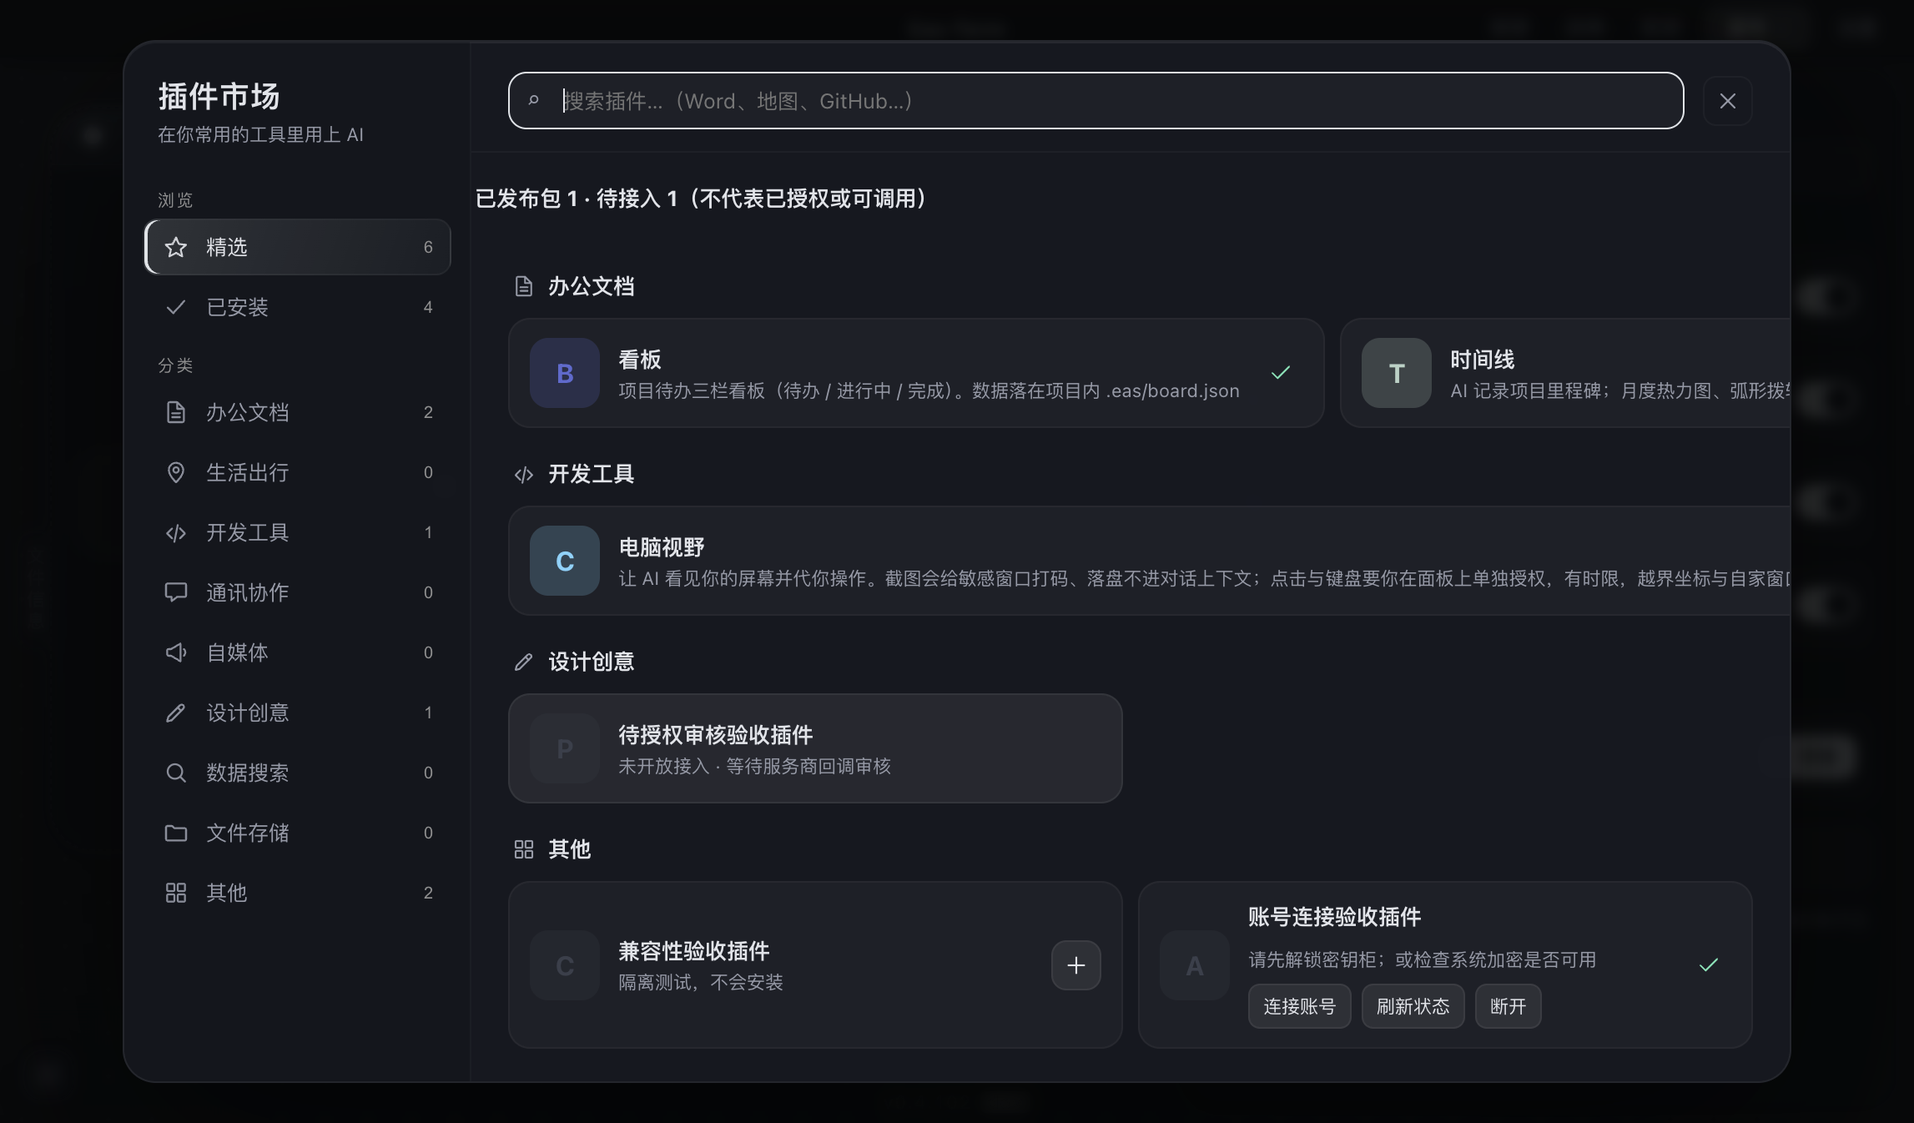
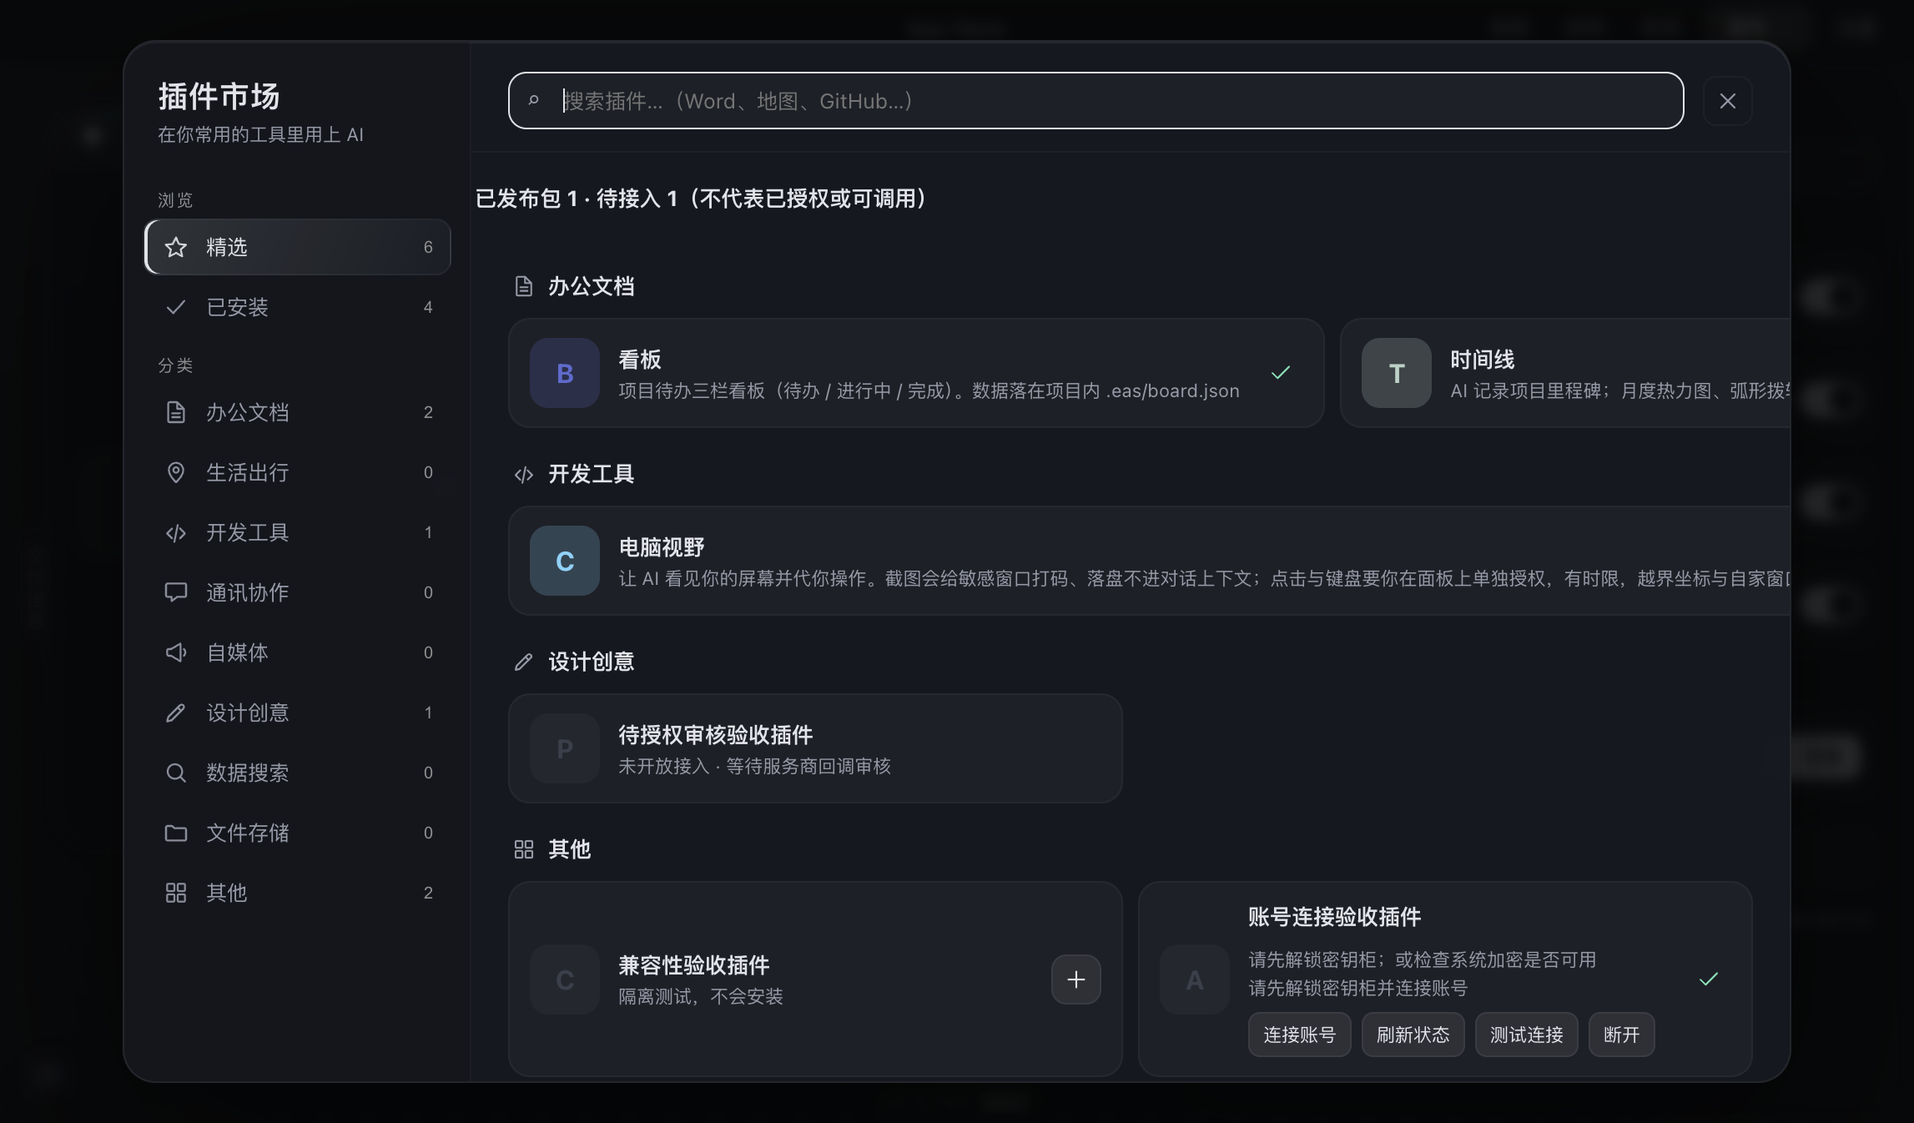
feat(plugins): probe connections through the managed shared host

Changed region(s): [[0.65, 0.8737, 0.8666, 0.9361], [0.3095, 0.8425, 0.4024, 0.9049]]

diff --git a/docs/verification/plugin-marketplace/progress.html b/docs/verification/plugin-marketplace/progress.html
@@ -1,16 +1,16 @@
-<!doctype html><html lang="zh-CN"><head><meta charset="utf-8"><meta name="viewport" content="width=device-width,initial-scale=1"><title>插件接入 · 实时进度</title><style>*{box-sizing:border-box}body{margin:0;background:#0a0a0a;color:#f5f5f5;font:15px/1.75 -apple-system,BlinkMacSystemFont,"PingFang SC",sans-serif}main{max-width:1080px;padding:28px;margin:auto}h1{font-size:29px;letter-spacing:-.02em;margin:8px 0}h2{font-size:12px;color:#a3a3a3;letter-spacing:.15em}section{background:rgba(23,23,23,.5);border:1px solid #262626;border-radius:14px;padding:20px;margin:18px 0}.muted{color:#a3a3a3}.warn{border-left:2px solid #fbbf24}.good{color:#6ee7b7}table{width:100%;border-collapse:collapse;font-size:13.5px}td{padding:9px;border-bottom:1px solid #262626}pre{background:#111;white-space:pre-wrap;overflow-wrap:anywhere;padding:16px;border-radius:12px;font-size:12px}.tw{overflow-x:auto}</style></head><body><main><h2>LIVE TASK STATUS / 本地轮询节点</h2><h1>插件市场统一接入</h1><p class="muted">按原 Demo 32 项接入 · 未上线 · 不修改正式应用</p><section class="warn"><b>通过 · 账号连接 UI 与 guarded IPC：全量检查、构建、隔离眼验</b><p>本次任务耗时 70 秒</p><p class="muted">最后采样：2026-09-18T06:03:10-07:00</p><p id="stale"></p></section><section><h2>DELIVERY / 交付阶段</h2><div class="tw"><table><tr><td>清单与设计</td><td class="good">已确认 · 32 项</td></tr><tr><td>兼容性门禁</td><td>代码已接线 · 不兼容拒绝已隔离 UI 验证</td></tr><tr><td>打包与安装边界</td><td>清单确认后防变更、普通更新失败回退已测试</td></tr><tr><td>远程 MCP / 统一授权</td><td>无需认证传输已接宿主并做隔离网关测试；账号授权/界面未完成</td></tr><tr><td>32 项插件接入</td><td>未完成；不以目录卡片计完成数</td></tr><tr><td>市场独立更新验收</td><td>未完成</td></tr></table></div></section><section><h2>PROCESS / 真实任务输出</h2><pre>../../out/renderer/assets/index-CqDpSFec.js                228.28 kB
-../../out/renderer/assets/DictView-V6gnTt7R.js             656.69 kB
+<!doctype html><html lang="zh-CN"><head><meta charset="utf-8"><meta name="viewport" content="width=device-width,initial-scale=1"><title>插件接入 · 实时进度</title><style>*{box-sizing:border-box}body{margin:0;background:#0a0a0a;color:#f5f5f5;font:15px/1.75 -apple-system,BlinkMacSystemFont,"PingFang SC",sans-serif}main{max-width:1080px;padding:28px;margin:auto}h1{font-size:29px;letter-spacing:-.02em;margin:8px 0}h2{font-size:12px;color:#a3a3a3;letter-spacing:.15em}section{background:rgba(23,23,23,.5);border:1px solid #262626;border-radius:14px;padding:20px;margin:18px 0}.muted{color:#a3a3a3}.warn{border-left:2px solid #fbbf24}.good{color:#6ee7b7}table{width:100%;border-collapse:collapse;font-size:13.5px}td{padding:9px;border-bottom:1px solid #262626}pre{background:#111;white-space:pre-wrap;overflow-wrap:anywhere;padding:16px;border-radius:12px;font-size:12px}.tw{overflow-x:auto}</style></head><body><main><h2>LIVE TASK STATUS / 本地轮询节点</h2><h1>插件市场统一接入</h1><p class="muted">按原 Demo 32 项接入 · 未上线 · 不修改正式应用</p><section class="warn"><b>通过 · 插件测试连接：共享宿主回归与隔离 UI 验证</b><p>本次任务耗时 65 秒</p><p class="muted">最后采样：2026-09-18T06:14:55-07:00</p><p id="stale"></p></section><section><h2>DELIVERY / 交付阶段</h2><div class="tw"><table><tr><td>清单与设计</td><td class="good">已确认 · 32 项</td></tr><tr><td>兼容性门禁</td><td>代码已接线 · 不兼容拒绝已隔离 UI 验证</td></tr><tr><td>打包与安装边界</td><td>清单确认后防变更、普通更新失败回退已测试</td></tr><tr><td>远程 MCP / 统一授权</td><td>无需认证传输已接宿主并做隔离网关测试；账号授权/界面未完成</td></tr><tr><td>32 项插件接入</td><td>未完成；不以目录卡片计完成数</td></tr><tr><td>市场独立更新验收</td><td>未完成</td></tr></table></div></section><section><h2>PROCESS / 真实任务输出</h2><pre>../../out/renderer/assets/DictView-C1Md1OF2.js             656.69 kB
 ../../out/renderer/assets/dictionary-bundle-ZdkIBe8W.js  1,489.45 kB
-../../out/renderer/assets/index-D6RLS707.js              4,412.40 kB
-✓ built in 3.23s
+../../out/renderer/assets/index-a3U8ItuQ.js              4,413.02 kB
+✓ built in 3.19s
 {
   &quot;passed&quot;: true,
   &quot;checks&quot;: [
     &quot;市场展示隔离目录条目&quot;,
-    &quot;OAuth账号控制显示连接/刷新/断开与真实锁定状态&quot;,
+    &quot;OAuth账号控制显示连接/刷新/测试/断开与真实锁定状态&quot;,
     &quot;实际IPC只返回状态，不返回凭证&quot;,
+    &quot;未授权测试连接明确拒绝，不打开登录或发出服务调用&quot;,
     &quot;v2待接入条目展示原因且无安装按钮&quot;,
     &quot;点击接入后显示明确宿主版本错误&quot;,
     &quot;请求仅为目录，未下载插件包&quot;
   ]
-}</pre></section><p class="muted">运行时每 5 秒采样并刷新；结束后显示真实退出结果。页面轮询不会启动任务，也不会让 AI 在会话结束后自行继续开发。</p><p>反馈指令：<code>汇报当前阻碍</code></p></main><script>const age=(Date.now()-Date.parse('2026-09-18T06:03:10-07:00'))/1000;if(age>30&&false)document.getElementById('stale').textContent='采样已超过 30 秒未更新，任务状态待核实，不能据此认定仍在运行。';</script></body></html>
+}</pre></section><p class="muted">运行时每 5 秒采样并刷新；结束后显示真实退出结果。页面轮询不会启动任务，也不会让 AI 在会话结束后自行继续开发。</p><p>反馈指令：<code>汇报当前阻碍</code></p></main><script>const age=(Date.now()-Date.parse('2026-09-18T06:14:55-07:00'))/1000;if(age>30&&false)document.getElementById('stale').textContent='采样已超过 30 秒未更新，任务状态待核实，不能据此认定仍在运行。';</script></body></html>

diff --git a/src/main/pluginConnections/authorizationActions.ts b/src/main/pluginConnections/authorizationActions.ts
@@ -4,23 +4,33 @@ import type {PluginAuthorizationRuntime} from './authorizationRuntime.ts'
 interface Dependencies {
  find:(id:string)=>PluginInfo|undefined
  runtime:(info:PluginInfo)=>Pick<PluginAuthorizationRuntime,'status'|'login'|'disconnect'>
+ probe?:(info:PluginInfo)=>Promise<number>
  confirm:(info:PluginInfo,action:'login'|'disconnect')=>Promise<boolean>
 }
 /** IPC accepts only action + installed ID. Never accepts endpoint, token, path or client ID. */
 export function createAuthorizationActions(deps:Dependencies){
  return async(action:unknown,id:unknown):Promise<PluginAuthorizationResult>=>{
   try{
-   if(!['status','login','disconnect'].includes(String(action))||typeof id!=='string'||!/^eas:[a-z0-9][a-z0-9-]{0,39}$/.test(id))throw Error('插件授权参数无效')
+   if(typeof action!=='string'||!['status','login','disconnect','test'].includes(action)||typeof id!=='string'||!/^eas:[a-z0-9][a-z0-9-]{0,39}$/.test(id))throw Error('插件授权参数无效')
    const info=deps.find(id)
    if(!info||info.cli!=='eas'||info.remote?.auth!=='oauth')throw Error('插件未配置账号连接')
-   if(action==='login'&&info.enabled===false)throw Error('请先启用插件')
+   if((action==='login'||action==='test')&&info.enabled===false)throw Error('请先启用插件')
    const snapshot=JSON.stringify(info.remote)
-   if(action!=='status'){
+   if(action==='login'||action==='disconnect'){
     if(!await deps.confirm(info,action as 'login'|'disconnect'))return {ok:false,error:'已取消'}
     const current=deps.find(id)
     if(!current||JSON.stringify(current.remote)!==snapshot||(action==='login'&&current.enabled===false))throw Error('插件配置已变化，请重新确认')
    }
    const runtime=deps.runtime(info)
+   if(action==='test'){
+    const status=runtime.status()
+    if(status!=='authorized'&&status!=='expired')throw Error('请先解锁密钥柜并连接账号')
+    if(!deps.probe)throw Error('连接测试暂不可用')
+    const toolCount=await deps.probe(info)
+    const after=runtime.status(),current=deps.find(id)
+    if(after!=='authorized'||!current||current.enabled===false||JSON.stringify(current.remote)!==snapshot)throw Error('账号或插件配置已变化，请重新测试')
+    return {ok:true,status:after,connection:{toolCount,checkedAt:Date.now()}}
+   }
    if(action==='login')await runtime.login()
    if(action==='disconnect')runtime.disconnect()
    return {ok:true,status:runtime.status()}

diff --git a/src/renderer/src/features/canvas/PluginAccountControls.tsx b/src/renderer/src/features/canvas/PluginAccountControls.tsx
@@ -3,15 +3,16 @@ import {pluginAuthorizationLabel,type PluginAuthorizationAction,type PluginAutho
 /** No timers/decryption polling. Refresh explicitly; credentials never cross this boundary. */
 export function PluginAccountControls({id,enabled}:{id:string;enabled:boolean}):JSX.Element {
  const [status,setStatus]=useState<PluginAuthorizationStatus|null>(null)
+ const [connection,setConnection]=useState<{toolCount:number;checkedAt:number}|null>(null)
  const [busy,setBusy]=useState(false)
  const [error,setError]=useState<string|null>(null)
  const generation=useRef(0)
  const run=async(action:PluginAuthorizationAction)=>{
-  const seq=++generation.current;setBusy(true);setError(null)
+  const seq=++generation.current;setBusy(true);setError(null);setConnection(null)
   try{
    const result=await window.api.plugins.authorization(action,id)
    if(seq!==generation.current)return
-   if(result.ok)setStatus(result.status)
+   if(result.ok){setStatus(result.status);setConnection(result.connection??null)}
    else setError(result.error)
   }catch{if(seq===generation.current)setError('账号状态读取失败，请重试')}
   finally{if(seq===generation.current)setBusy(false)}
@@ -19,10 +20,12 @@ export function PluginAccountControls({id,enabled}:{id:string;enabled:boolean}):
  useEffect(()=>{void run('status');return()=>{generation.current++}},[id])
  return <div className="pm-auth" data-plugin-account={id}>
   <div className="pm-cd" role="status">{busy?'账号操作中…':status?pluginAuthorizationLabel(status):'读取账号状态…'}</div>
+  {connection&&<div className="pm-cd" role="status">已连通 · {connection.toolCount} 个工具 · {new Date(connection.checkedAt).toLocaleTimeString()} 检测（未执行业务操作）</div>}
   {error&&<div className="pm-cd" role="alert">{error}</div>}
   <div className="pm-auth-actions">
    <button type="button" disabled={busy||!enabled} onClick={()=>void run('login')}>{status==='authorized'?'重新授权':'连接账号'}</button>
    <button type="button" disabled={busy} onClick={()=>void run('status')}>刷新状态</button>
+   <button type="button" disabled={busy||!enabled} onClick={()=>void run('test')}>测试连接</button>
    <button type="button" onClick={()=>void run('disconnect')}>断开</button>
   </div>
  </div>

diff --git a/src/main/pluginRemoteHost.test.ts b/src/main/pluginRemoteHost.test.ts
@@ -32,7 +32,7 @@ for(const oauth of [false,true])test('actual host shim gateway shares one remote
  const port=(server.address() as {port:number}).port
  const source=ts.createSourceFile('pluginHost.ts',readFileSync(new URL('./pluginHost.ts',import.meta.url),'utf8'),ts.ScriptTarget.Latest,true)
  const pick=(name:string)=>{const node=source.statements.find(n=>(ts.isFunctionDeclaration(n)&&n.name?.text===name)||(ts.isVariableStatement(n)&&n.declarationList.declarations.some(d=>ts.isIdentifier(d.name)&&d.name.text===name)));assert.ok(node);return node.getText(source)}
- const code=ts.transpileModule(['PLUGIN_START_COST','startingPlugins','spawnHosted','acquire','pluginRpcFromShim'].map(pick).join('\n'),{compilerOptions:{module:ts.ModuleKind.CommonJS,target:ts.ScriptTarget.ES2022}}).outputText
+ const code=ts.transpileModule(['PLUGIN_START_COST','startingPlugins','spawnHosted','acquire','pluginRpcFromShim','testPluginConnection'].map(pick).join('\n'),{compilerOptions:{module:ts.ModuleKind.CommonJS,target:ts.ScriptTarget.ES2022}}).outputText
  const info={name:'fixture',displayName:'Fixture',cli:'eas',remote:{url:'https://mcp.example.com/mcp',approvedOrigins:['https://mcp.example.com'],auth:oauth?'oauth':'none'}}
  const leases=new CredentialLeases(()=>true)
  const authorized=createAuthenticatedFetch({url:info.remote.url,lease:leases.acquire(),load:()=>({access_token:'fixture-token',token_type:'Bearer'}),refresh:async()=>{throw Error('not expired')},fetch:async(_url,init)=>fetch('http://127.0.0.1:'+port+'/mcp',init)})
@@ -67,5 +67,6 @@ for(const oauth of [false,true])test('actual host shim gateway shares one remote
   }finally{shim.close();await shim.exited}
  }
  assert.equal(initialized,1);assert.equal(calls,6)
+ const refs=registry.refs('fixture');assert.equal(await exports.testPluginConnection(info),1);assert.equal(registry.refs('fixture'),refs);assert.equal(calls,6);assert.equal(initialized,1)
  if(oauth){const client=registry.get('fixture')!.client;leases.invalidate();await client.connectionClosed;assert.equal(client.alive,false)}
 })

diff --git a/src/main/pluginConnections/authorizationActions.test.ts b/src/main/pluginConnections/authorizationActions.test.ts
@@ -20,3 +20,16 @@ test('confirmation cannot authorize a changed manifest or disabled plugin',async
  assert.equal((await api('login',plugin.id)).ok,false);assert.equal(logins,0)
  const f=setup();f.replace({...plugin,enabled:false});assert.equal((await f.api('login',plugin.id)).ok,false)
 })
+test('test connection requires credentials and reports only tool count without login',async()=>{
+ let state='disconnected',probes=0
+ const api=actions.createAuthorizationActions({find:()=>plugin,runtime:()=>({status:()=>state as 'disconnected'|'authorized',login:async()=>{throw Error('must not login')},disconnect:()=>{}}),confirm:async()=>{throw Error('not a login')},probe:async()=>{probes++;return 3}})
+ assert.equal((await api('test',plugin.id)).ok,false);assert.equal(probes,0)
+ state='authorized';const result=await api('test',plugin.id)
+ assert.equal(result.ok,true);if(result.ok){assert.equal(result.connection?.toolCount,3);assert.equal(typeof result.connection?.checkedAt,'number')}
+ assert.equal(probes,1)
+})
+test('connection result is discarded if authorization disappears while probing',async()=>{
+ let state:'authorized'|'disconnected'='authorized'
+ const api=actions.createAuthorizationActions({find:()=>plugin,runtime:()=>({status:()=>state,login:async()=>({authorized:true}),disconnect:()=>{}}),confirm:async()=>true,probe:async()=>{state='disconnected';return 4}})
+ assert.equal((await api('test',plugin.id)).ok,false)
+})

diff --git a/src/shared/pluginAuthorization.ts b/src/shared/pluginAuthorization.ts
@@ -1,7 +1,7 @@
 /** Credential-free UI contract. Authorized means local token exists, not service availability. */
 export type PluginAuthorizationStatus='disconnected'|'authorized'|'expired'|'locked-or-unavailable'
-export type PluginAuthorizationAction='status'|'login'|'disconnect'
-export type PluginAuthorizationResult={ok:true;status:PluginAuthorizationStatus}|{ok:false;error:string}
+export type PluginAuthorizationAction='status'|'login'|'disconnect'|'test'
+export type PluginAuthorizationResult={ok:true;status:PluginAuthorizationStatus;connection?:{toolCount:number;checkedAt:number}}|{ok:false;error:string}
 export function pluginAuthorizationLabel(status:PluginAuthorizationStatus):string {
  return {disconnected:'账号未连接',authorized:'凭证已保存 · 尚未测试连接',expired:'凭证已过期 · 调用前尝试刷新','locked-or-unavailable':'请先解锁密钥柜；或检查系统加密是否可用'}[status]
 }

diff --git a/src/main/plugins.ts b/src/main/plugins.ts
@@ -254,7 +254,7 @@ export function registerPluginHandlers(): void {
   guardedHandle('plugins:authorization', (event, args: {action?:unknown;id?:unknown}) => {
     const win=BrowserWindow.fromWebContents(event.sender)
     if(!win||win.isDestroyed())return {ok:false,error:'工作台窗口已关闭'}
-    return createAuthorizationActions({find:findPlugin,runtime:getPluginAuthorization,confirm:async(info,action)=>{
+    return createAuthorizationActions({find:findPlugin,runtime:getPluginAuthorization,probe:async info=>(await import('./pluginHost')).testPluginConnection(info),confirm:async(info,action)=>{
       const remote=info.remote!
       const response=await dialog.showMessageBox(win,{type:'question',title:action==='login'?'连接插件账号':'断开插件账号',
         message:action==='login'?`连接「${info.displayName}」的账号？`:`断开「${info.displayName}」？`,

diff --git a/src/main/pluginHost.ts b/src/main/pluginHost.ts
@@ -503,3 +503,13 @@ export async function stopObservedPlugin(serviceId:string,callerWindowId:number,
   host=>{if(host.kind==='plugin')host.client.close()},
   host=>{if(host.kind==='plugin')manualStops.stop(host.name)})
 }
+
+/** Read-only explicit connectivity probe. Reuses managed admission and shared host. */
+export async function testPluginConnection(info:PluginInfo):Promise<number>{
+ const ref='test:'+crypto.randomUUID()
+ try{
+  const hosted=await acquire(info,ref)
+  const tools=await hosted.client.listTools()
+  return tools.length
+ }finally{registry.release(info.name,ref)}
+}

diff --git a/docs/architecture/13-所有权矩阵.md b/docs/architecture/13-所有权矩阵.md
@@ -265,3 +265,5 @@ shared/browserRoutes.json → scripts/build-browser-routes.mjs → docs/browser/
 新目录`pluginCatalog.ts`支持v1/v2，旧`parseRegistry`仍只读v1（旧客户端不会接受schema2）。v2不可安装条目是独立`unavailable`列表，拒绝url/hash等伪下载字段；同步shared PluginUnavailableEntry、preload返回形状、完整市场无安装按钮与原因/缓存提示。正式默认目录URL仍v1，切换v2与服务器上线尚未执行。
 
 2026-09-18 插件账号UI同步链：`shared/pluginAuthorization.ts`（只含状态/动作/结果）↔ `authorizationActions.ts`（校验已安装ID、原生确认后重验清单与启用状态）↔ `plugins.ts` 内 guarded `plugins:authorization` ↔ preload ↔ `PluginAccountControls`（完整市场卡片）。不接收renderer URL/clientId/路径/令牌，不自动登录，不轮询解密；本地有token只标“凭证已保存，尚未测试连接”。断开关闭当前配置连接并清其本地凭证，不等于撤销服务商授权或历史配置清理。保持原有registerPluginHandlers启动位置不动。
+
+账号`test`契约同步shared PluginAuthorizationAction/Result → authorizationActions.probe → plugins.ts动态引入pluginHost（避免顶层循环） → testPluginConnection共享宿主 → PluginAccountControls工具数/时间。禁止改成另建不受资源准入管理的远程客户端，禁止为测试连接执行供应商业务工具。

diff --git a/docs/verification/plugin-marketplace/demo-integration-audit-2026-09-18.md b/docs/verification/plugin-marketplace/demo-integration-audit-2026-09-18.md
@@ -50,7 +50,7 @@
 
 ## 代码证据与缺口
 
-- `src/main/pluginRegistry.ts`：schema 1 目录只支持下载包元数据，尚无兼容性/授权状态/不可安装原因的正式契约。
+- `src/main/pluginRegistry.ts`：schema 1 目录只支持下载包元数据，（初次核验时的缺口，现已由requirements门禁及pluginCatalog v2补上；线上目录尚未切换）。
 - `src/main/pluginManifest.ts`：要求 `mcp.command`，当前是本地进程型插件清单。
 - `src/main/mcpClient.ts` 与 `pluginHost.ts`：当前插件宿主是 stdio 子进程客户端；不能仅填远程 URL 就视为已接入。
 - `scripts/build-plugin-registry.mjs`：构建清单只有 pomodoro 和 board。
@@ -69,7 +69,7 @@
 2. 宿主原生远程 MCP + 通用授权/配置层；一次客户端升级，后续兼容插件独立上架。
 3. 直接转交各 CLI 自己安装：体验与配置会分裂，不作为统一市场默认路线。
 
-当前阶段：清单已锁定，完成局部源码与上游核验；未实施接入、未测试新插件、未发布。
+当前阶段：宿主、授权基础与账号控件已实现并做隔离验证；32真实连接器和账号仍未验收，未发布。
 
 ## 官方来源增量核验（2026-09-18，非真实账号验收）
 
